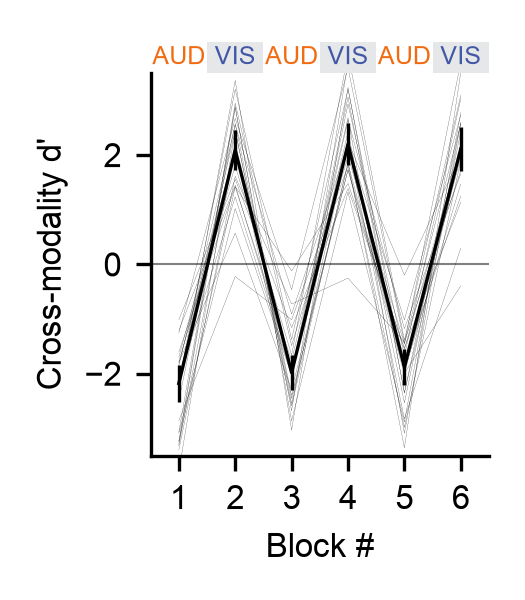
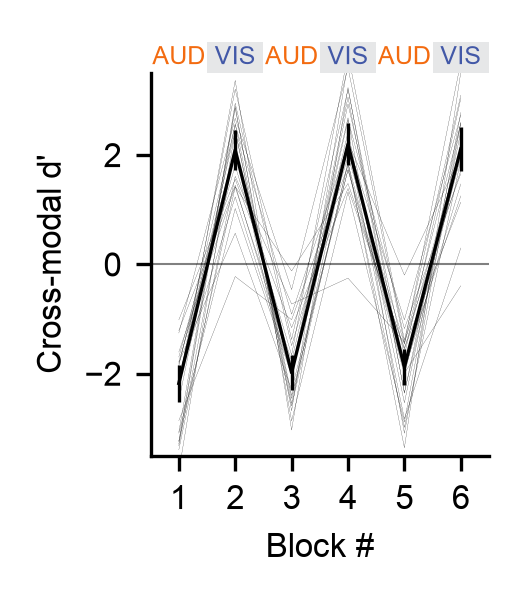
Rename cross-modal d-prime label

Changed region(s): [[0.061, 0.21, 0.1219, 0.66]]

diff --git a/figures/fig1/block-performance/marimo_nb.py b/figures/fig1/block-performance/marimo_nb.py
@@ -434,7 +434,7 @@ def _(
 
     format_ax(_ax, _subject_data, [])
     _ax.set(
-        ylabel="Cross-modality d'",
+        ylabel="Cross-modal d'",
         ylim=(-3.5, 3.5),
     )
     _ax.axhline(0, lw=0.5, zorder=0, c="grey")
